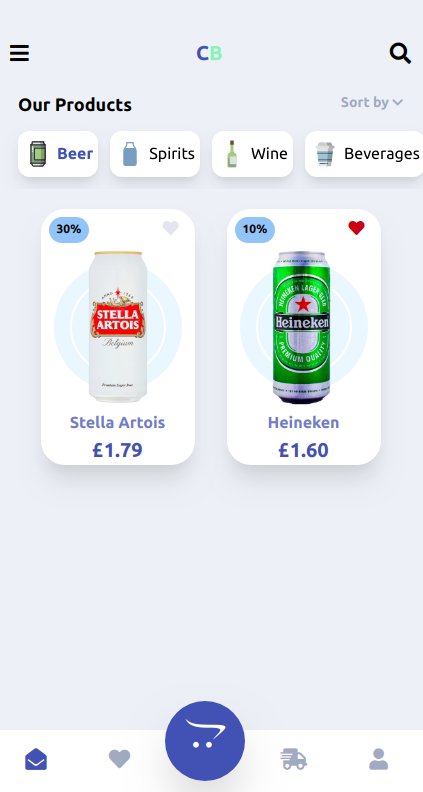
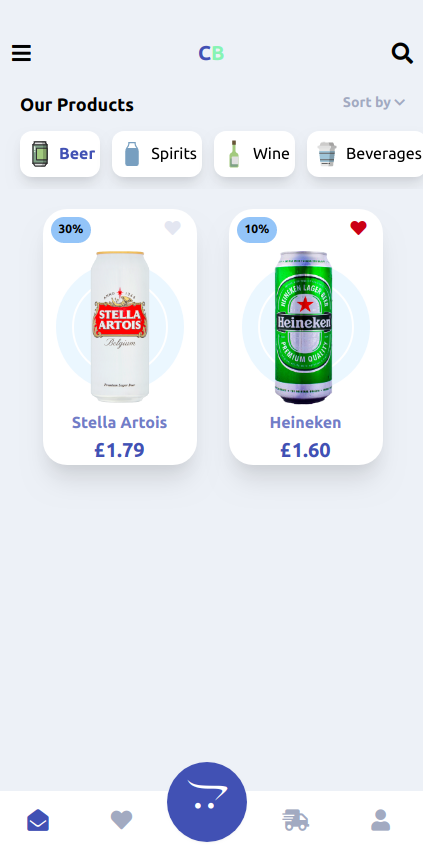
day 2 Commit

diff --git a/day2/index.html b/day2/index.html
@@ -117,7 +117,7 @@
             <i class="fas fa-heart fa-lg text-gray-500"></i>
           </li>
           <li class="-mb-px mr-2 last:mr-0 flex text-center">
-            <i class="fab fa-opencart fa-lg text-white fa-2x bg-blue-700 p-5 h-20 w-20 rounded-full mb-10 shadow-2xl"></i> 
+            <i class="fab fa-opencart fa-lg text-white fa-2x bg-blue-700 p-5 h-20 w-20 rounded-full mb-10 shadow-sm"></i> 
           </li>
           <li class="-mb-px mr-2 last:mr-0 flex-auto text-center">
             <i class="fas fa-shipping-fast fa-lg text-gray-500"></i>
